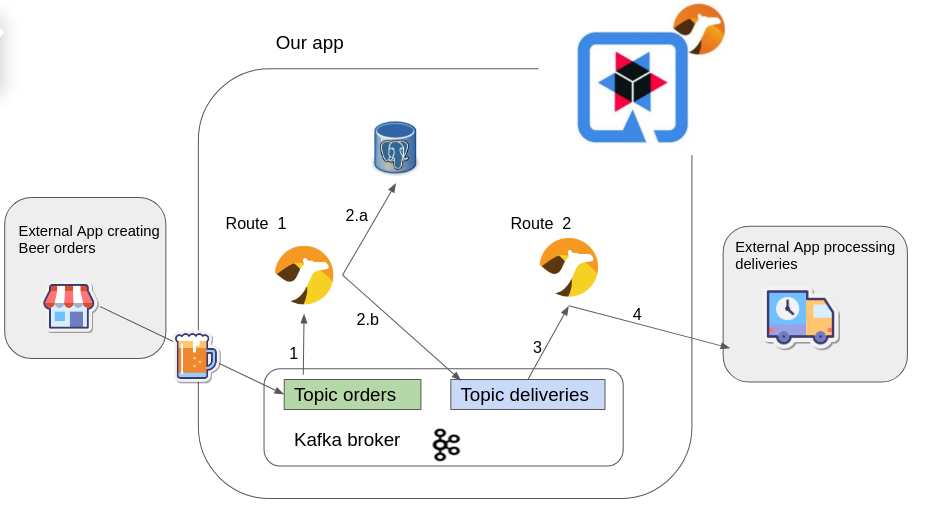
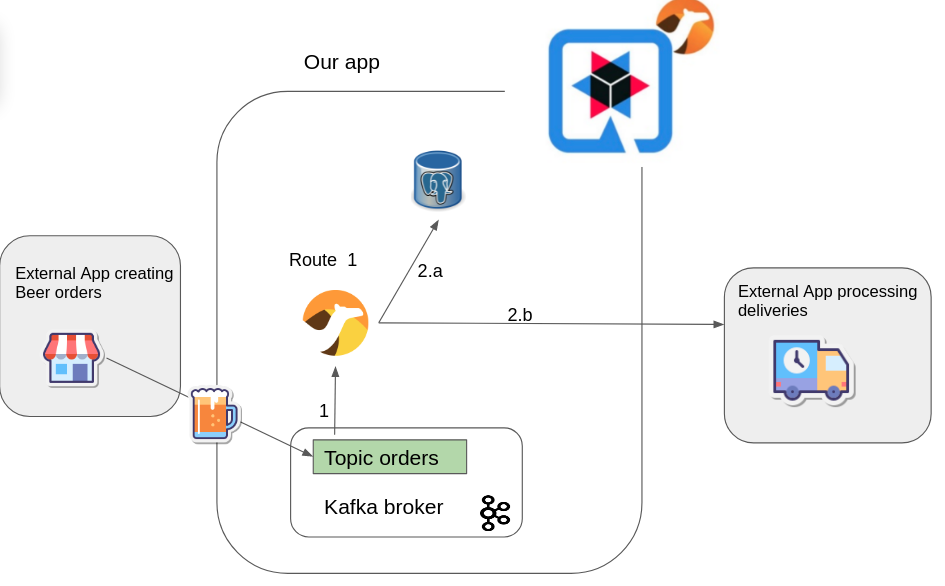
Add kafka example

diff --git a/part-7-kafka/src/main/java/org/acme/Coffee.java b/part-7-kafka/src/main/java/org/acme/Coffee.java
@@ -1,0 +1,74 @@
+package org.acme;
+
+import io.quarkus.runtime.annotations.RegisterForReflection;
+
+@RegisterForReflection
+public class Coffee {
+
+    Long id;
+    String uid;
+    String blend_name;
+    String origin;
+    String variety;
+    String notes;
+    String intensifier;
+
+    public Coffee() {
+    }
+
+    public Long getId() {
+        return id;
+    }
+
+    public void setId(Long id) {
+        this.id = id;
+    }
+
+    public String getUid() {
+        return uid;
+    }
+
+    public void setUid(String uid) {
+        this.uid = uid;
+    }
+
+    public String getBlend_name() {
+        return blend_name;
+    }
+
+    public void setBlend_name(String blend_name) {
+        this.blend_name = blend_name;
+    }
+
+    public String getOrigin() {
+        return origin;
+    }
+
+    public void setOrigin(String origin) {
+        this.origin = origin;
+    }
+
+    public String getVariety() {
+        return variety;
+    }
+
+    public void setVariety(String variety) {
+        this.variety = variety;
+    }
+
+    public String getNotes() {
+        return notes;
+    }
+
+    public void setNotes(String notes) {
+        this.notes = notes;
+    }
+
+    public String getIntensifier() {
+        return intensifier;
+    }
+
+    public void setIntensifier(String intensifier) {
+        this.intensifier = intensifier;
+    }
+}

diff --git a/part-7-kafka/src/main/java/org/acme/MyRoutes.java b/part-7-kafka/src/main/java/org/acme/MyRoutes.java
@@ -1,10 +1,38 @@
 package org.acme;
 
+import org.apache.camel.Exchange;
 import org.apache.camel.builder.RouteBuilder;
+import org.apache.camel.component.http.HttpMethods;
 
 public class MyRoutes extends RouteBuilder {
 
     @Override
     public void configure() throws Exception {
+        /**
+         * This Camel Route simulates the external app that adds orders
+         */
+        from("timer:create-random-coffee-orders")
+                .to("http:{{random-coffee-api}}")
+                .unmarshal().json(Coffee.class)
+                .bean(OrderBean.class)
+                .marshal().json()
+                .to("kafka:orders");
+
+        /**
+         * This Camel Route simulates the external app that deliver orders
+         */
+        from("platform-http:/deliveries?httpMethodRestrict=POST")
+                .log("{\"Order to deliver ${body}\"}");
+
+
+        // This is the Kafka Route to create
+        from("kafka:orders")
+                .unmarshal().json(CoffeeOrder.class)
+                .to("jpa:" + CoffeeOrder.class)
+                .bean(DeliveryBean.class)
+                .marshal().json()
+                .setHeader(Exchange.HTTP_METHOD, constant(HttpMethods.POST))
+                .setHeader(Exchange.CONTENT_TYPE, constant("application/json"))
+                .to("http:{{delivery-service-api}}");
     }
 }

diff --git a/part-7-kafka/src/main/java/org/acme/CoffeeOrder.java b/part-7-kafka/src/main/java/org/acme/CoffeeOrder.java
@@ -1,0 +1,59 @@
+package org.acme;
+
+import java.util.UUID;
+
+import javax.persistence.Entity;
+import javax.persistence.GeneratedValue;
+import javax.persistence.Id;
+
+@Entity
+public class CoffeeOrder {
+
+    @Id
+    @GeneratedValue
+    Long id;
+    String userId;
+    Long coffeeId;
+    String blend_name;
+
+    public CoffeeOrder() {
+    }
+
+    public CoffeeOrder(Coffee coffee) {
+        this.userId = UUID.randomUUID().toString();
+        this.blend_name = coffee.getBlend_name();
+        this.coffeeId = coffee.getId();
+    }
+
+    public Long getId() {
+        return id;
+    }
+
+    public void setId(Long id) {
+        this.id = id;
+    }
+
+    public String getUserId() {
+        return userId;
+    }
+
+    public void setUserId(String userId) {
+        this.userId = userId;
+    }
+
+    public Long getCoffeeId() {
+        return coffeeId;
+    }
+
+    public void setCoffeeId(Long coffeeId) {
+        this.coffeeId = coffeeId;
+    }
+
+    public String getBlend_name() {
+        return blend_name;
+    }
+
+    public void setBlend_name(String blend_name) {
+        this.blend_name = blend_name;
+    }
+}

diff --git a/part-7-kafka/src/main/java/org/acme/Delivery.java b/part-7-kafka/src/main/java/org/acme/Delivery.java
@@ -1,0 +1,30 @@
+package org.acme;
+
+public class Delivery {
+    String name;
+    CoffeeOrder order;
+
+    public Delivery(String name) {
+    }
+
+    public Delivery(CoffeeOrder order) {
+        this.order = order;
+        this.name = "ZINEB";
+    }
+
+    public String getName() {
+        return name;
+    }
+
+    public void setName(String name) {
+        this.name = name;
+    }
+
+    public CoffeeOrder getOrder() {
+        return order;
+    }
+
+    public void setOrder(CoffeeOrder order) {
+        this.order = order;
+    }
+}

diff --git a/part-7-kafka/src/main/java/org/acme/OrderBean.java b/part-7-kafka/src/main/java/org/acme/OrderBean.java
@@ -1,0 +1,11 @@
+package org.acme;
+
+import io.quarkus.runtime.annotations.RegisterForReflection;
+
+@RegisterForReflection
+public class OrderBean {
+
+    public CoffeeOrder generateOrder(Coffee coffee){
+        return new CoffeeOrder(coffee);
+    }
+}

diff --git a/part-7-kafka/src/main/java/org/acme/DeliveryBean.java b/part-7-kafka/src/main/java/org/acme/DeliveryBean.java
@@ -1,0 +1,7 @@
+package org.acme;
+
+public class DeliveryBean {
+    public Delivery generateOrder(CoffeeOrder order){
+        return new Delivery(order);
+    }
+}
